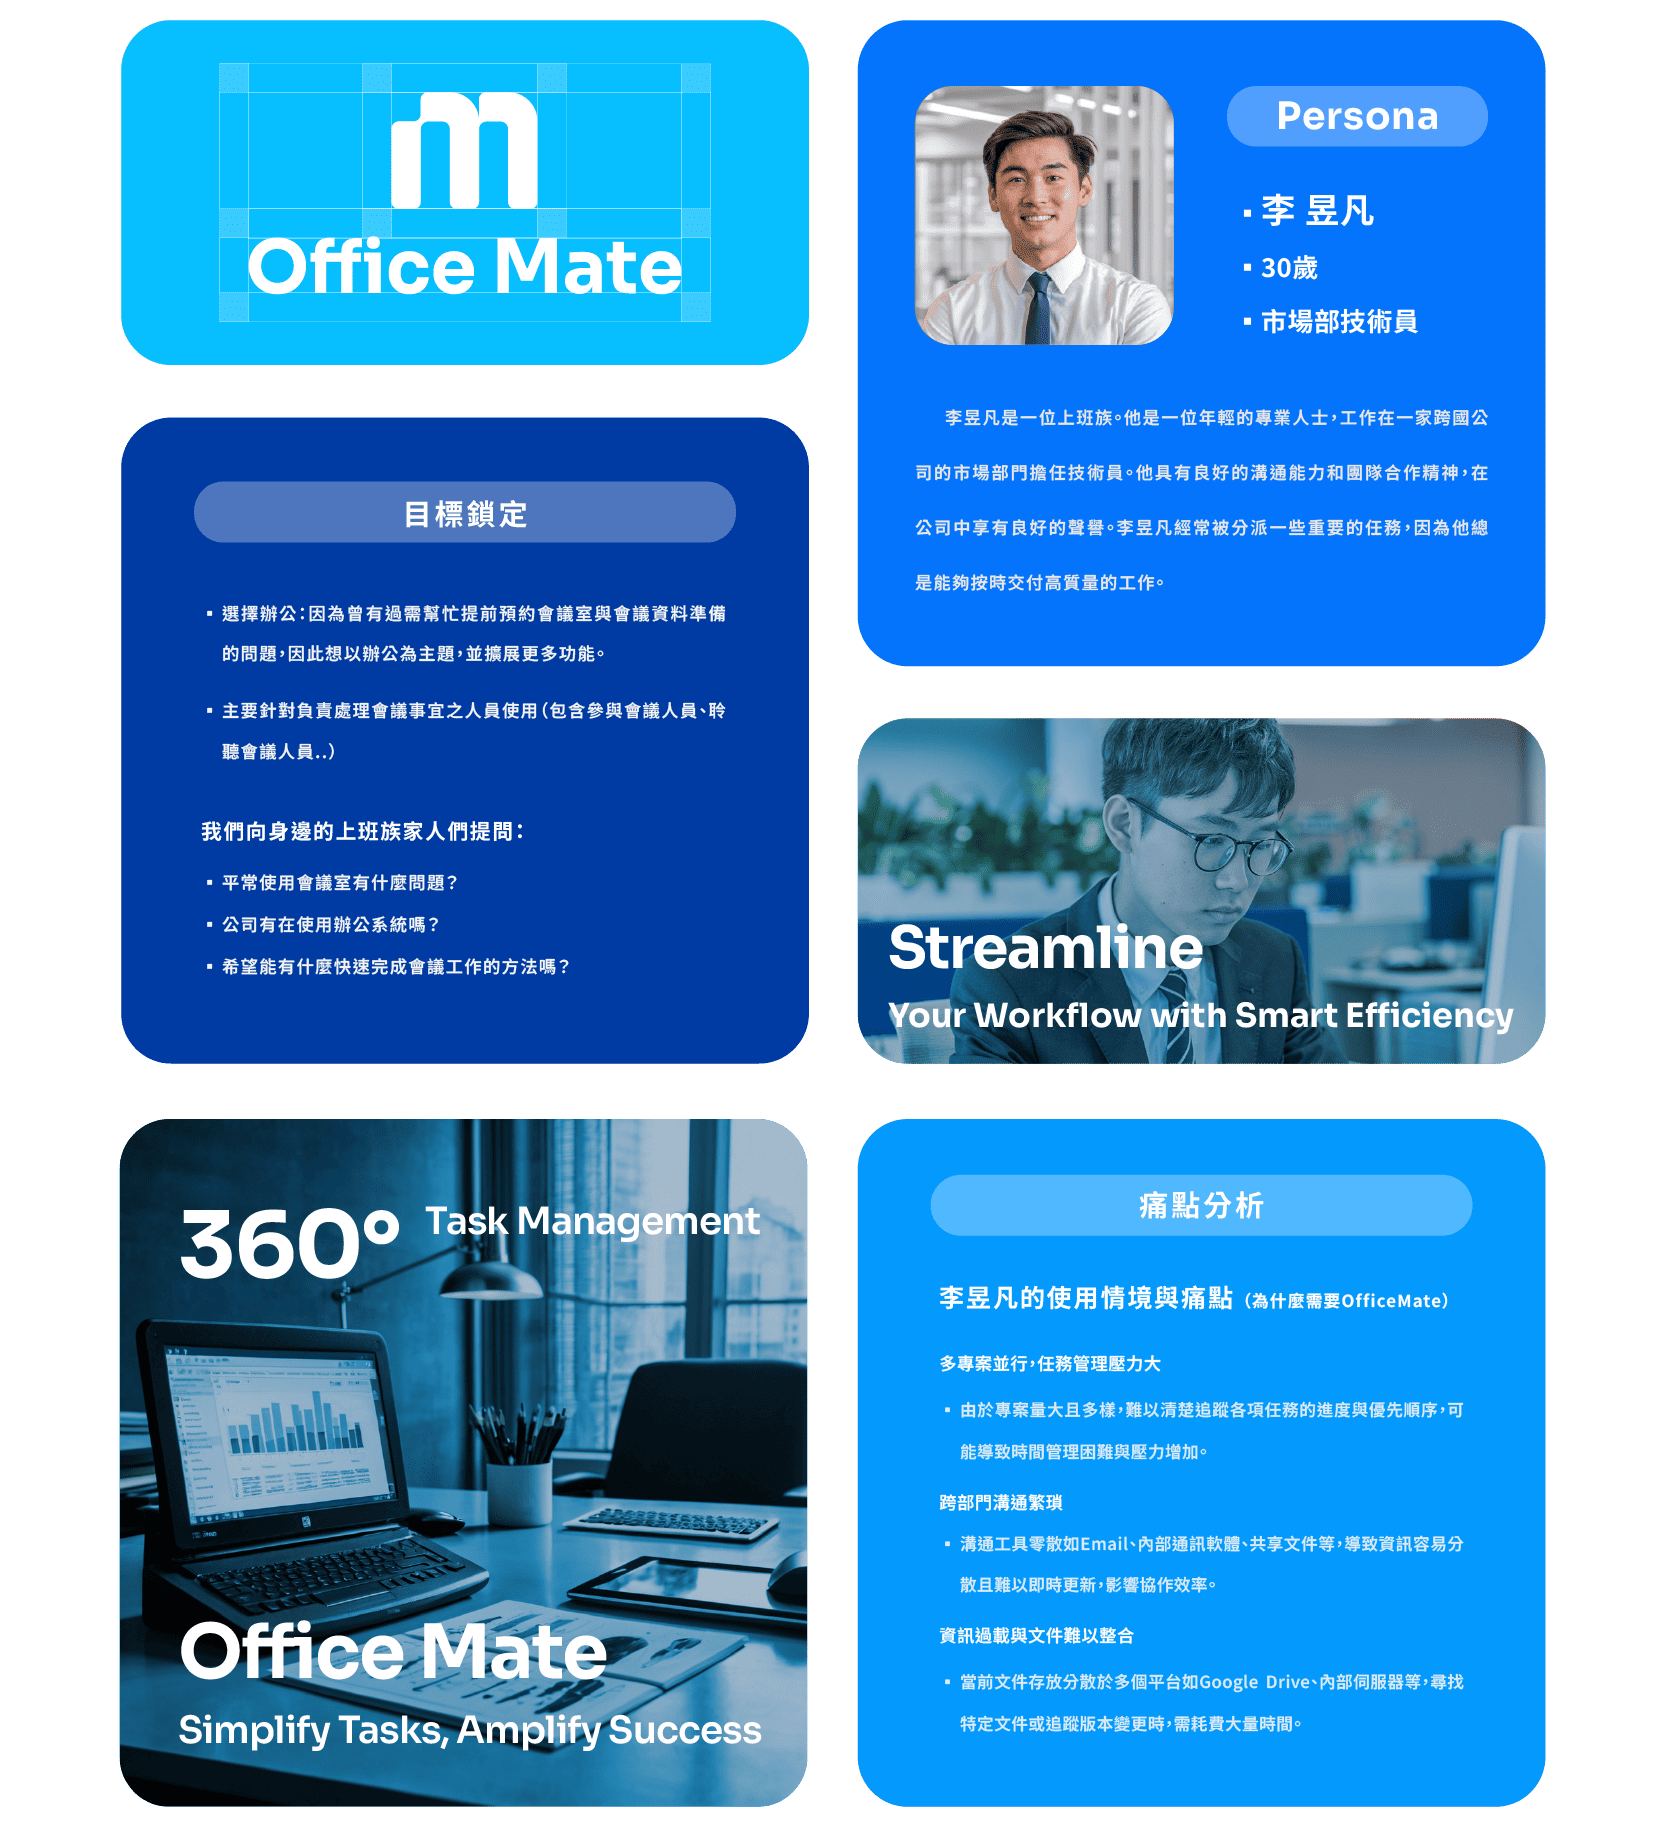
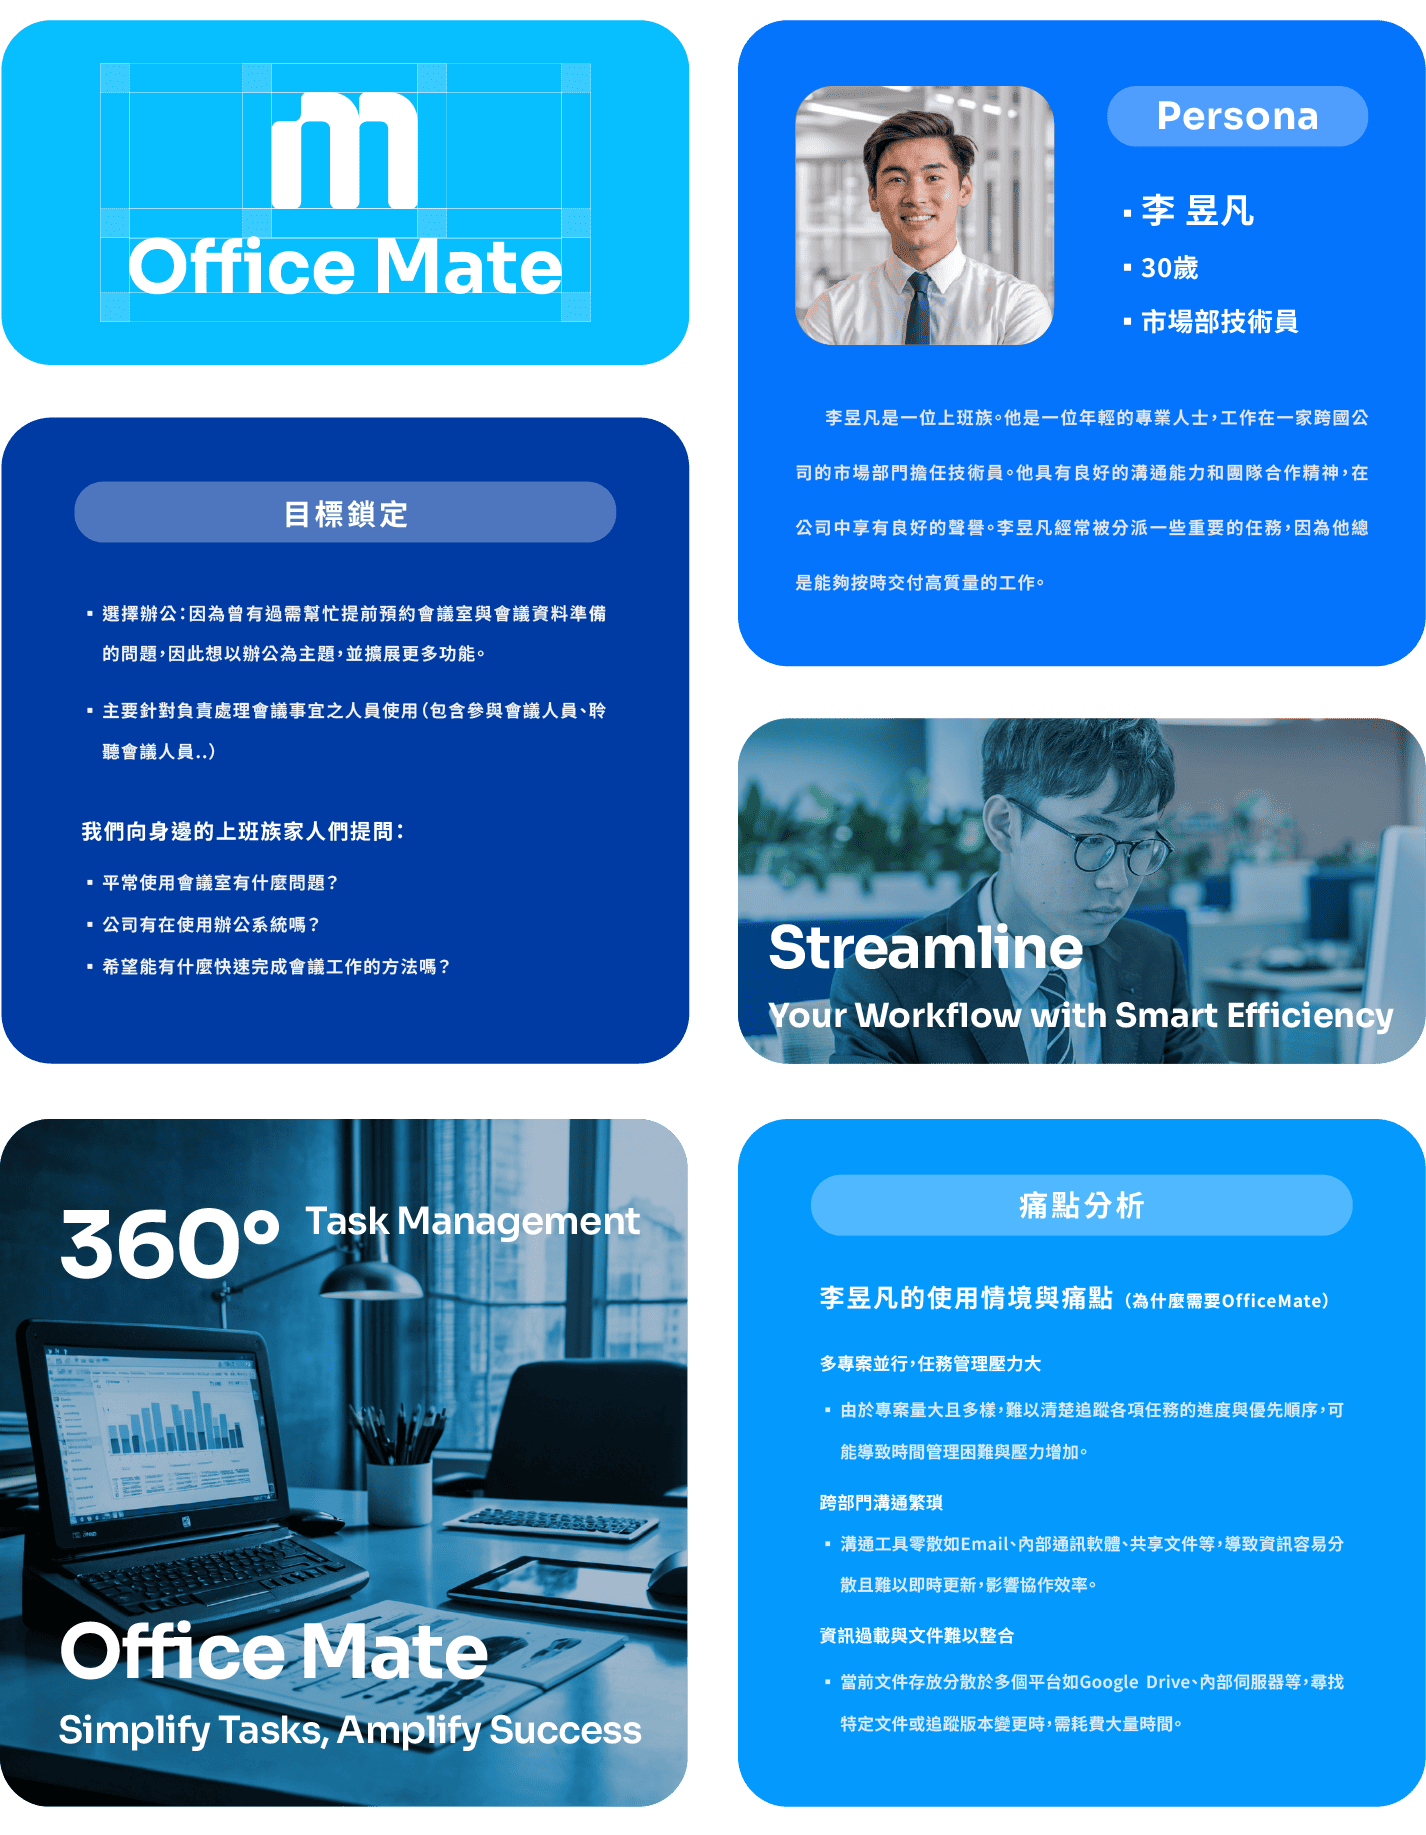
0000

diff --git a/design/OfficeMate.html b/design/OfficeMate.html
@@ -128,7 +128,7 @@
         </section>
 
         <div class="image-grid">
-            <img src="辦公app 識別系統_工作區域 1.png" alt="123">
+            <img src="辦公app 識別系統_工作區域 1 複本 2.png" alt="123">
             <img src="辦公app 識別系統-07.png" alt="123">
         </div>
         <div style="display: flex; justify-content: center;">
